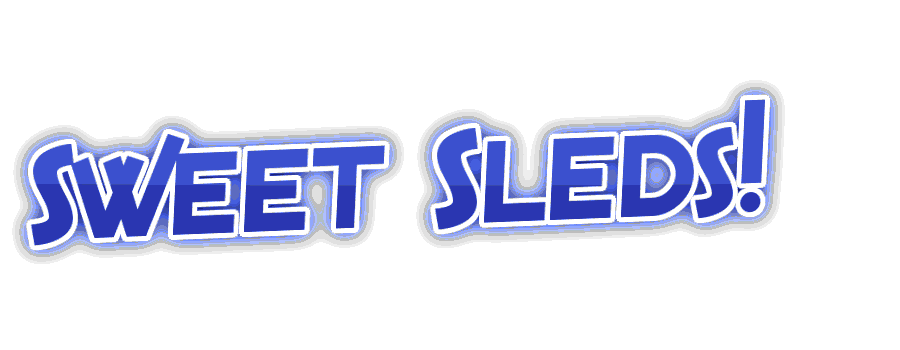
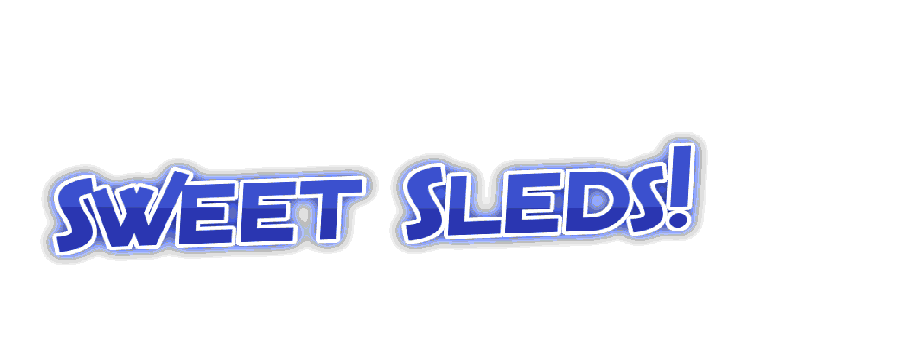
Added some more information
Not completely sure on the form adding process. Will try to figure it
out.

Changed region(s): [[0.0, 0.2286, 0.8711, 0.7714]]

diff --git a/CS399Agency/templates/campone.html b/CS399Agency/templates/campone.html
@@ -9,12 +9,13 @@
         <!-- Heading Row -->
         <div class="row">
             <div class="col-md-8">
-                <img class="img-responsive img-rounded" src="http://placehold.it/900x350" alt="SweetSledsLogo">
+                <img src="static/SweetSleds.png" alt="SweetSledsLogo">
             </div>
             <!-- /.col-md-8 -->
             <div class="col-md-4">
-                <h1><center>Sweet Sleds!</center></h1>
-                <p>We are Sweet Sleds! We have, you guessed it, sleds! In a winter wonderland like the city of Flagstaff, there are few things more fun or exciting thant taking a hot pink sled downs some sick slopes. Support us and we'll give you things!</p>
+                <h1><center>Hey You!</center></h1>
+                <p>We are Sweet Sleds! We have, you guessed it, sleds! In a winter wonderland like the city of Flagstaff, there are few things more fun or exciting thant taking a hot pink sled downs some sick slopes. </p>
+                <p>I know what you're thinking, "What makes your sleds so special? Well allow us to tell you. We hand craft all of our sleds with the love of our customers. We love you and you should support us. We'll give you things!</p>
             </div>
             <!-- /.col-md-4 -->
         </div>
@@ -36,18 +37,18 @@
         <!-- Content Row -->
         <div class="row">
             <div class="col-md-4">
-                <h2>Heading 1</h2>
-                <p>Lorem ipsum dolor sit amet, consectetur adipisicing elit. Saepe rem nisi accusamus error velit animi non ipsa placeat. Recusandae, suscipit, soluta quibusdam accusamus a veniam quaerat eveniet eligendi dolor consectetur.</p>
+                <h2><center>Custom Sled</center></h2>
+                <p>Are you the kind of person who like to have thing unique to you? Well you're in luck! If you give us your email, we will send you a 50% off coupon for a custom sled. We can put flames on it for you!</p>
             </div>
             <!-- /.col-md-4 -->
             <div class="col-md-4">
-                <h2>Heading 2</h2>
-                <p>Lorem ipsum dolor sit amet, consectetur adipisicing elit. Saepe rem nisi accusamus error velit animi non ipsa placeat. Recusandae, suscipit, soluta quibusdam accusamus a veniam quaerat eveniet eligendi dolor consectetur.</p>
+                <h2><center>We Want to Help</center></h2>
+                <p>We know you all sled-hards are out there going hard. We want to help keep you safe. Give us your email and we'll get you some coupons for some some equipment. You'll even be entered into a drawing for an awesome helmet.</p>
             </div>
             <!-- /.col-md-4 -->
             <div class="col-md-4">
-                <h2>Heading 3</h2>
-                <p>Lorem ipsum dolor sit amet, consectetur adipisicing elit. Saepe rem nisi accusamus error velit animi non ipsa placeat. Recusandae, suscipit, soluta quibusdam accusamus a veniam quaerat eveniet eligendi dolor consectetur.</p>
+                <h2><center>Secret Locations</center></h2>
+                <p>Psst. Wanna hear a secret? We know some awesome locations to sled. The thing is, if we just tell you, just anyone can go to them. So all you have to do is give us your email and well send you directions. Cool?</p>
             </div>
             <!-- /.col-md-4 -->
         </div>
